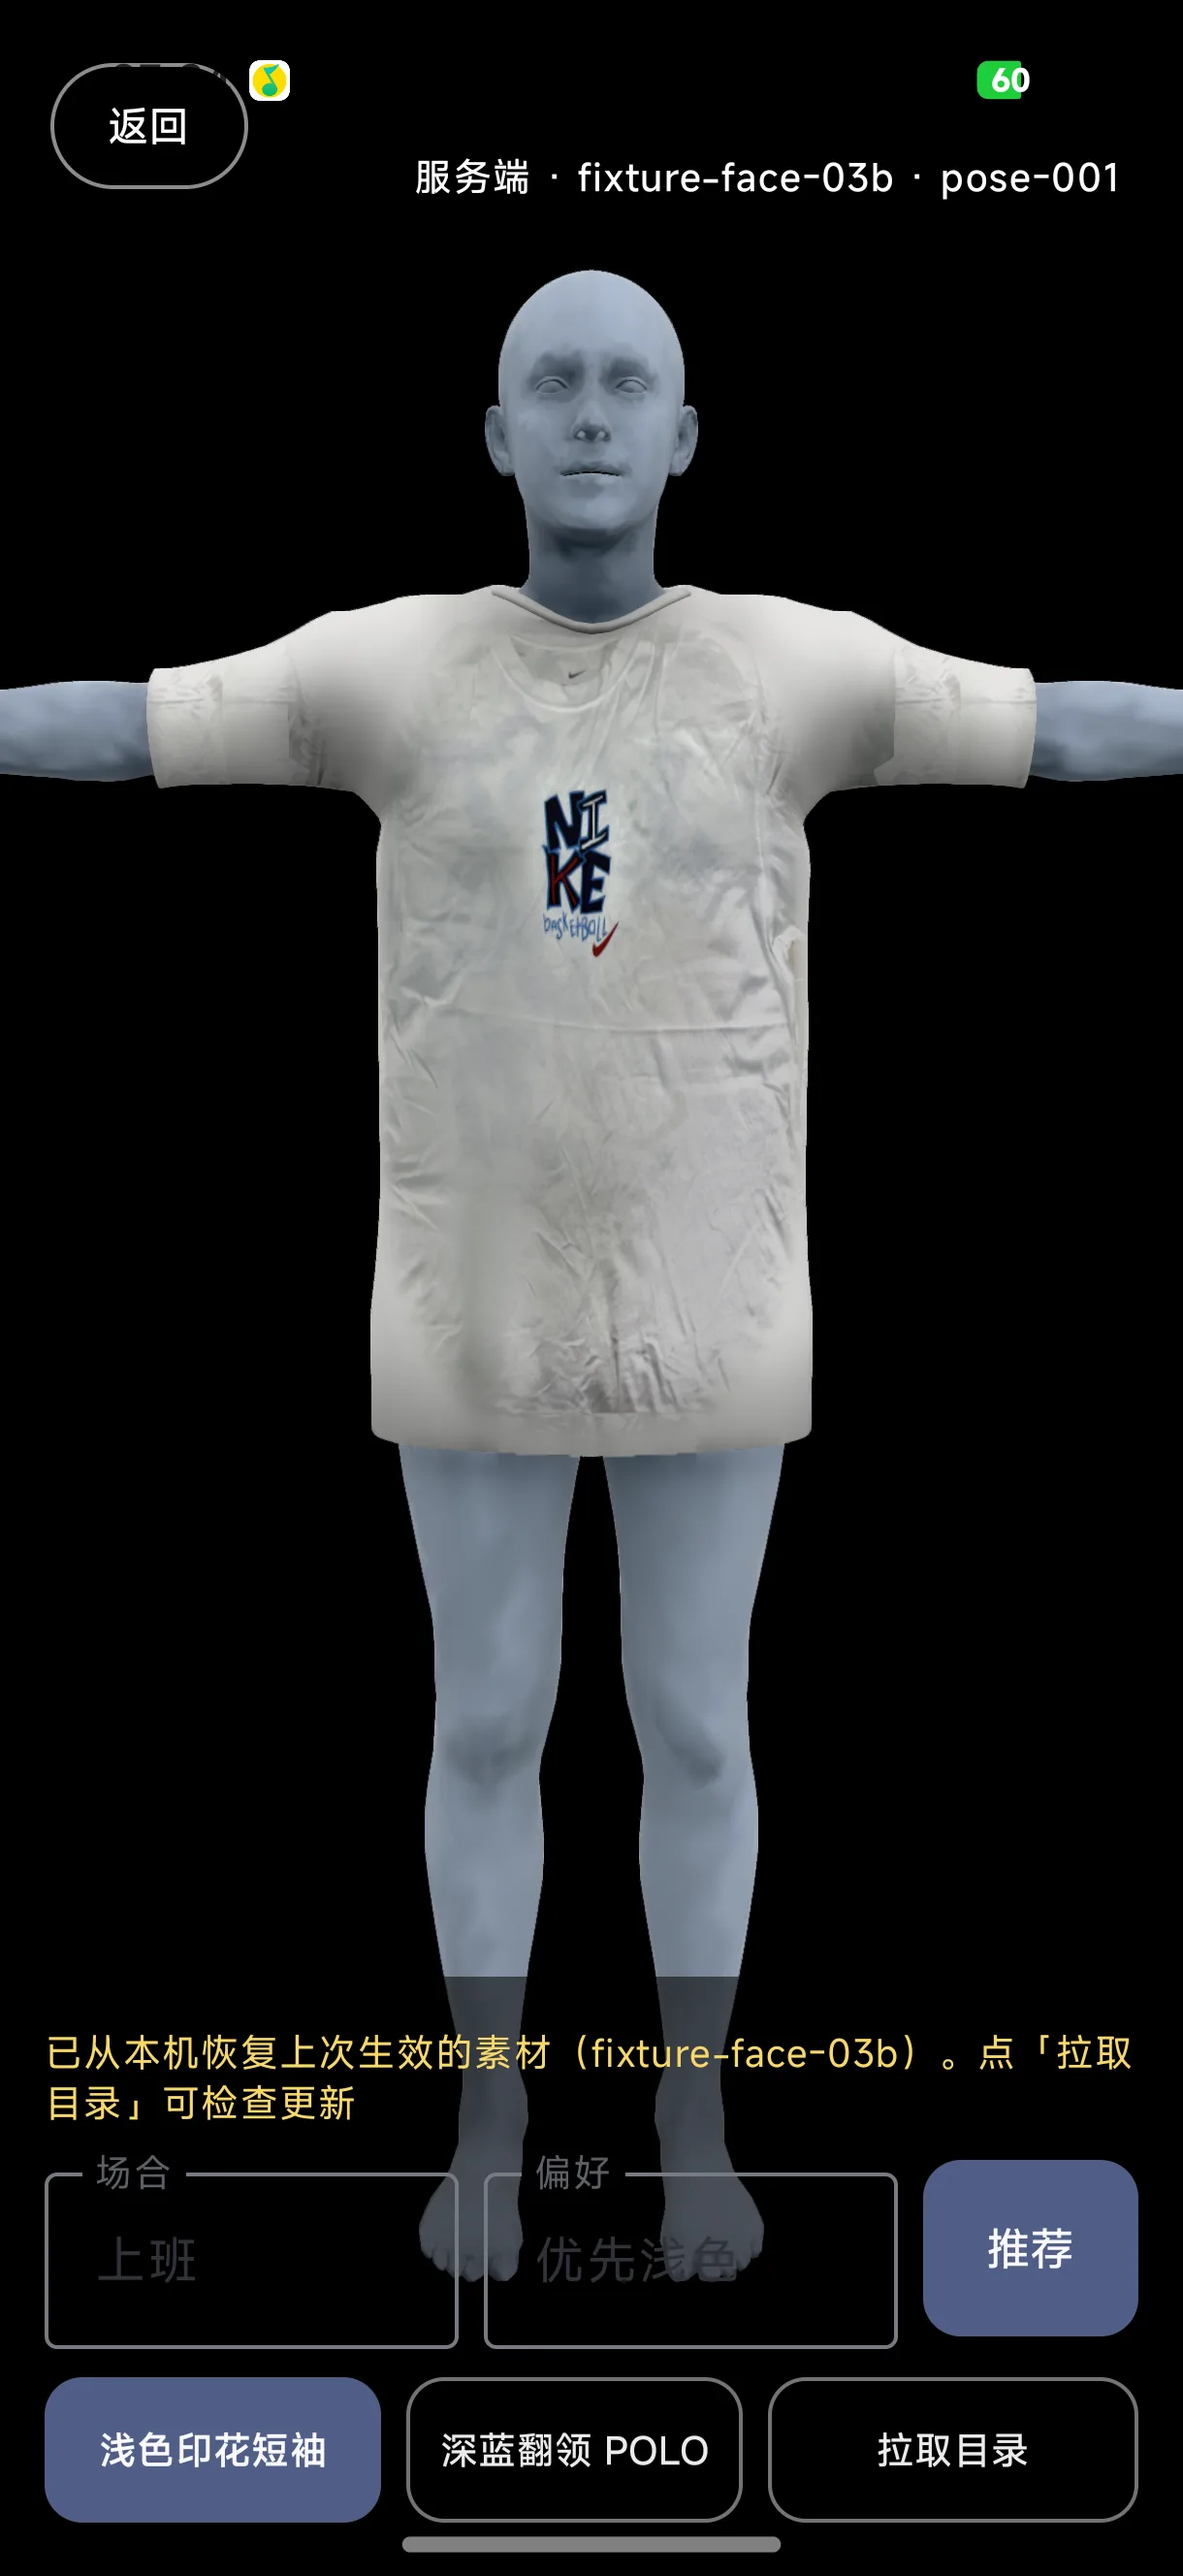
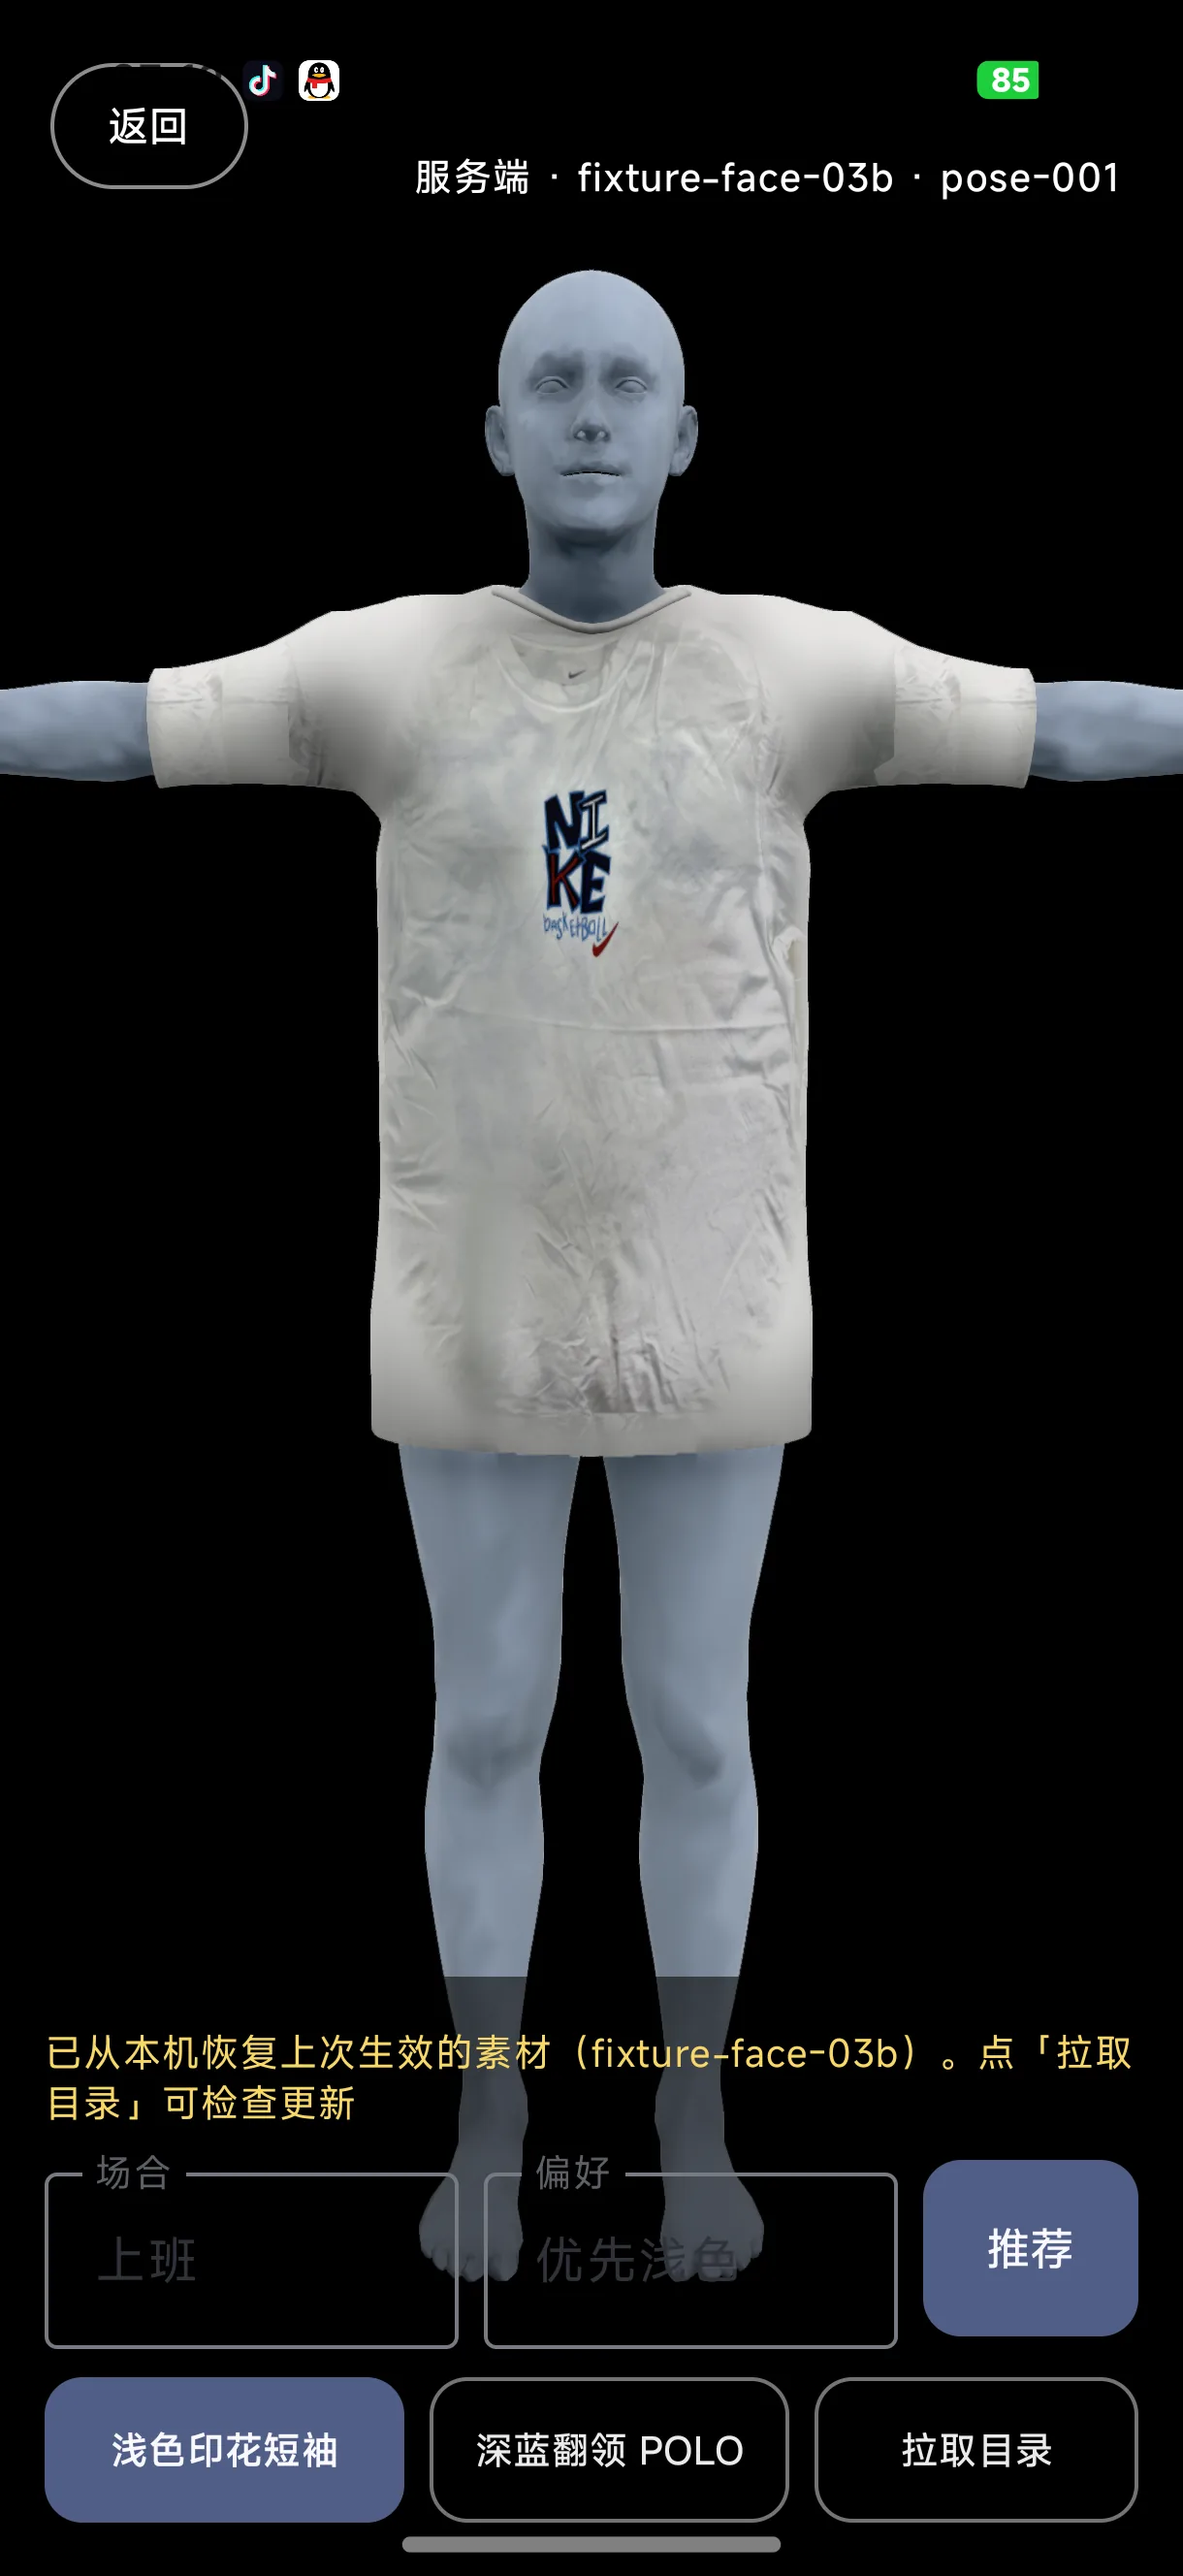
fix(android): #44 补 2.0 字号修复，衣物按钮 3 行 + 拉取目录换行
上一版只按 1.45 调，真机 2.0 实测暴露两处仍被省略：

1. 「深蓝翻领 POLO」在 2.0 下两行仍放不下，显示成「深蓝翻 / 领 PO...」。
   每行实际只能容 3 个中文字（约 3em），全名约 6.3em，两行差 0.3em。
   → maxLines 2 改 3，留出兜底行数。

2. 把「拉取目录」weight 从 1.1 调到 0.9 给衣物按钮让宽度后，
   拉取目录自己变成「拉取...」。
   → 拉取目录 maxLines 1 改 2 并居中，「拉取目/录」两行。

真机验证（Xiaomi 17 Pro fe474c80，同一 APK 只改系统字号）：

| font_scale | 首页双按钮 | 试衣页三按钮 | 采集页底栏 |
|---|---|---|---|
| 1.00 | 完整 | 一行完整，高度未变 | — |
| 1.45 | 完整 | 两行完整，拉取目录一行 | 「开始一镜到底采集」完整 |
| 2.00 | 完整 | 两行完整 | 「开始一镜到底采集」完整 |

证据图 10 张在 docs/evidence/44-font-scale-1123/：
before-* 为修复前问题复现，其余为修复后。

diff --git a/android/app/src/main/java/com/ootd/ai/ui/TryOnScreen.kt b/android/app/src/main/java/com/ootd/ai/ui/TryOnScreen.kt
@@ -620,7 +620,7 @@ private fun TryOnContent(
                                 contentPadding = PaddingValues(horizontal = 6.dp),
                                 modifier = buttonModifier
                             ) {
-                                Text(g.label, maxLines = 2, overflow = TextOverflow.Ellipsis,
+                                Text(g.label, maxLines = 3, overflow = TextOverflow.Ellipsis,
                                     fontSize = 12.sp, fontWeight = FontWeight.SemiBold,
                                     textAlign = TextAlign.Center)
                             }
@@ -639,7 +639,7 @@ private fun TryOnContent(
                                     contentColor = Color.White.copy(alpha = 0.92f)),
                                 contentPadding = PaddingValues(horizontal = 6.dp),
                                 modifier = buttonModifier
-                            ) { Text(g.label, maxLines = 2, overflow = TextOverflow.Ellipsis,
+                            ) { Text(g.label, maxLines = 3, overflow = TextOverflow.Ellipsis,
                                 fontSize = 12.sp, textAlign = TextAlign.Center) }
                         }
                     }
@@ -651,9 +651,10 @@ private fun TryOnContent(
                             contentColor = Color.White.copy(alpha = 0.92f)),
                         contentPadding = PaddingValues(horizontal = 6.dp),
                         modifier = Modifier
-                            .weight(1.1f)
+                            .weight(0.9f)
                             .heightIn(min = 46.dp)
-                    ) { Text(if (syncing) "同步中…" else "拉取目录", maxLines = 1, overflow = TextOverflow.Ellipsis, fontSize = 12.sp) }
+                    ) { Text(if (syncing) "同步中…" else "拉取目录", maxLines = 2, overflow = TextOverflow.Ellipsis,
+                            fontSize = 12.sp, textAlign = TextAlign.Center) }
                 }
             }
         }
